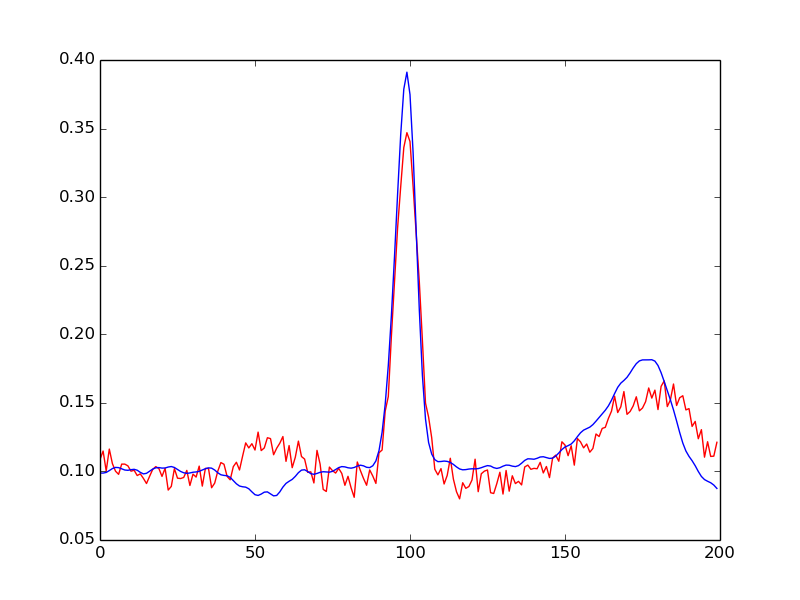
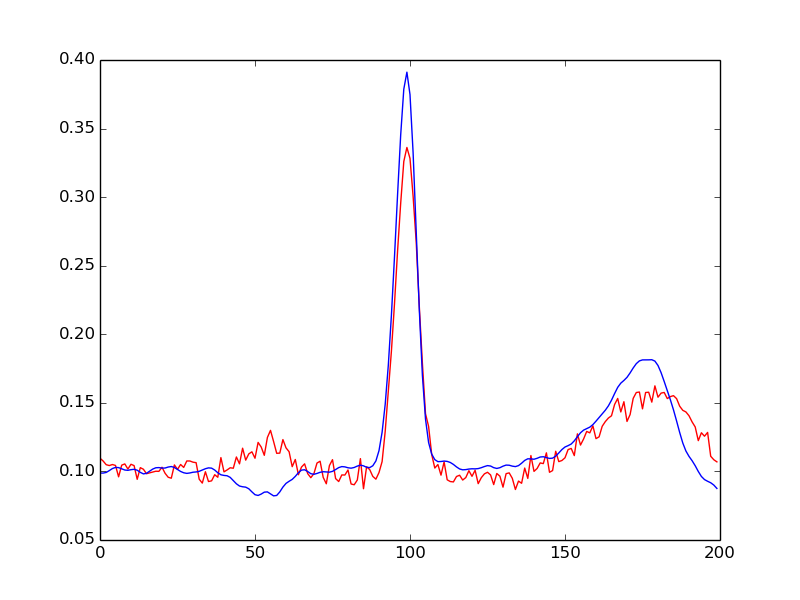
acha

diff --git a/dA.py b/dA.py
@@ -267,7 +267,7 @@ class dA(object):
         return (cost, updates)
 
 
-def test_dA(learning_rate=0.3, training_epochs=50,hidden_units=50,
+def test_dA(learning_rate=0.3, training_epochs=100,hidden_units=75,
             dataset='mnist.pkl.gz',corruption=0.3,
             batch_size=1, output_folder='dA_plots'):
 
@@ -426,7 +426,6 @@ def test_dA(learning_rate=0.3, training_epochs=50,hidden_units=50,
         if not test_set_y[idx] ==0 and anom[int(test_set_y[idx])]:
         	plt.figure(idx)
 		#print cost
-                print cost[0][0]
         	plt.plot(cost[0][0],'r')
                 plt.plot(cost[1][0],'b')
                 plt.savefig('fig_%d_recon.png'%(test_set_y[idx]))
